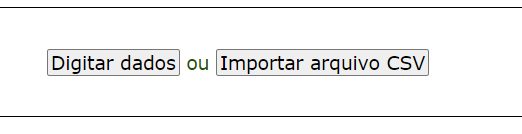
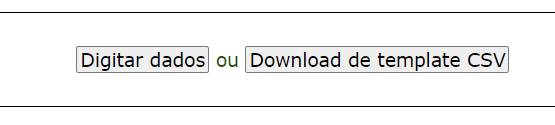
4th commit

diff --git a/js/calculo.js b/js/calculo.js
@@ -36,12 +36,14 @@ function funcCalcularDados(){
     let qtdeColetores, qtdeRepeticoes, qtdePassadas, coletorCentral;
     let bitola;
     let larguraPneu;
+    let nColetorCentral;
     qtdeColetores    = Number(document.getElementById('txtQtdeColetores').value);
     qtdeRepeticoes   = Number(document.getElementById('txtQtdeRepeticoes').value);
     qtdePassadas     = Number(document.getElementById('txtQtdePassadas').value);
     //coletorCentral   = document.getElementById('radioParImpar').value;
     bitola           = Number(document.getElementById('txtBitola').value);
     larguraPneu      = Number(document.getElementById('txtLarguraPneu').value);
+    nColetorCentral   = Number(document.getElementById('txtNumColetorCentral').value);
     // Inicializa o array
     for(let i=0; i<qtdeColetores; i++){
         arrPlanilhaResultado[i] = []; // Inicializa novas linhas
@@ -155,6 +157,57 @@ function exibePlanilhaResultado(){
         document.getElementById('div-resultado-tabela').innerHTML = outptHTML;
         //document.write(outptHTML);
     } // if
+}
+
+function criaTemplateCSVParaDownload(){
+    /**
+     * Cria o arquivo CSV de acordo com os parâmetros passados
+     */
+    var arrTemplate = []; // Cria um array multidimensional
+    let qtdeColetores, qtdeRepeticoes, qtdePassadas, coletorCentral;
+    let bitola;
+    let larguraPneu;
+    let nColetorCentral;
+    var dados; // dados do template
+    qtdeColetores    = Number(document.getElementById('txtQtdeColetores').value);
+    qtdeRepeticoes   = Number(document.getElementById('txtQtdeRepeticoes').value);
+    qtdePassadas     = Number(document.getElementById('txtQtdePassadas').value);
+    //coletorCentral   = document.getElementById('radioParImpar').value;
+    bitola           = Number(document.getElementById('txtBitola').value);
+    larguraPneu      = Number(document.getElementById('txtLarguraPneu').value);
+    nColetorCentral   = Number(document.getElementById('txtNumColetorCentral').value);
+    // Inicializa o array
+    for(let i=0; i<qtdeColetores; i++){
+        arrTemplate[i] = []; // Inicializa novas linhas
+        for(let j=0; j<(qtdeRepeticoes+8); j++){
+            arrTemplate[i][j] = 0; // Preenche com zeros
+        } // j
+    } // i
+    dados = 'Coletor;';
+    // cria o cabeçalho
+    for(let i=0; i<qtdeRepeticoes; i++){
+        dados += 'Rep. '+(i+1)+';';
+    }
+    dados += 'Qtde passadas;Bitola;Largura pneu;Num do coletor central;Coletor central'; // cabeçalho do arquivo
+    // Preenche toda coluna "Coletor"
+    for(let i=1; i<=qtdeColetores; i++){
+        arrTemplate[i] = []; // Inicializa novas linhas
+        arrTemplate[i][0] = i; 
+    }
+    // Popula os dados apenas da linha 1, coluna "qtde passadas" até o fim da linha
+    arrTemplate[1][qtdeRepeticoes+2] = qtdePassadas+';';
+    arrTemplate[1][qtdeRepeticoes+3] = bitola+';';
+    arrTemplate[1][qtdeRepeticoes+4] = larguraPneu+';';
+    arrTemplate[1][qtdeRepeticoes+5] = nColetorCentral+';';
+    arrTemplate[1][qtdeRepeticoes+6] = 'P';
+
+    // Precisa mesclar os dados do array com do cabeçalho.... ******************************************************************************************
+
+    let ancora = document.createElement('a');
+    ancora.href = 'data:text/csv;charset=utf-8,' + encodeURI(dados); // link do download com o arquivo
+    ancora.target = '_blank'; // abre em nova página
+    ancora.download = 'Template AdulancoWeb '+Date.now(); // nome do arquivo CSV
+    ancora.click(); // dispara o download
 }
 
 function leiaCSV(){

diff --git a/entradamanual.html b/entradamanual.html
@@ -58,8 +58,8 @@
                 <li>
                     <fieldset>
                         <div id="div-fieldset-botoes" class="div-main-body-fieldset-botoes">
-                            <input type="button" id="btnCriarCampos" value="Digitar dados"> ou 
-                            <input type="button" id="btnEntradaCSV" value="Importar arquivo CSV">
+                            <input type="button" id="btnCriarCampos" value="Digitar dados" title="informar dados manualmente"> ou 
+                            <input type="button" id="btnDownloadTemplate" value="Download do template CSV" title="Baixar planilha modelo">
                         </div>
                     </fieldset>
                 </li>
@@ -68,10 +68,17 @@
                         <legend>Digite abaixo </legend>
                         <!--form id="form-entrada-digitacao"-->
                             <div id="div-fieldset-entrada-digitacao"></div>
+                            <br>
                             <input type="button" id="btnCalcular" value="Calcular dados">
                             <input type="reset" id="btnLimparTabela" value="Limpar campos da tabela">
                             <input type="button" id="btnDeletarTabela" value="Deletar tabela" disabled>
-                            <input type="checkbox" id="cbHabilitaDelete" /><label for="cbHabilitaDelete" class="p-fieldset-fonte-pqna"> Habilita botão</label>
+                            <input type="checkbox" id="cbHabilitaDelete" /><label for="cbHabilitaDelete" class="p-fieldset-fonte-pqna"> Habilitar botão</label>
+                            <br>
+                            <ul>
+                                <li class="texto-observacao">*Calcular dados: Gera o resultado e gráficos.</li>
+                                <li class="texto-observacao">*Limpar campos: Esvazia todos os campos da tabela acima.</li>
+                                <li class="texto-observacao">*Para deletar toda a tabela, selecione o item "Habilitar botão". Após, clique no botão "Deletar tabela".</li>
+                            </ul>
                         <!--/form-->
                     </fieldset>
                 </li>
@@ -89,7 +96,8 @@
     window.addEventListener('scroll', menuFooter);
     //window.addEventListener('resize', menuFooter);
     document.getElementById('btnCalcular').addEventListener('click', funcCalcularDados);
-    document.getElementById('btnEntradaCSV').addEventListener('click', ()=>{window.location.href="entradacsv.html";});
+    document.getElementById('btnDownloadTemplate').addEventListener('click', criaTemplateCSVParaDownload);
+    //document.getElementById('btnEntradaCSV').addEventListener('click', ()=>{window.location.href="entradacsv.html";});
     document.getElementById('btnCriarCampos').addEventListener('click', criaCamposDinamicosParaUserDigitarDados);
     document.getElementById('btnDeletarTabela').addEventListener('click', ()=>{ removeElementoFilhoHTML('div-fieldset-entrada-digitacao','tb-digitar-dados'); });
     document.getElementById('cbHabilitaDelete').addEventListener('change', habilitaDesabilitaBotaoDeletarTabela);

diff --git a/instrucoes.html b/instrucoes.html
@@ -20,21 +20,21 @@
                 <h4>Iniciado em novembro de 2024, o layout e os cálculos ainda estão sob desenvolvimento.</h4>
                 <h4>Volte no futuro e obrigado pela visita! </h4>
                 <hr>
+
                 <h1><a href="#inicio">Como iniciar?</a></h1>
                 <p>Vá ao menu "entrada manual" e role a página para baixo</p>
                 <p>Informe os valores em cada campo (vide imagem abaixo)</p>
                 <br>
-                
                 <p><img src="assets/em-tela1.png" class="img-instrucoes" alt="entrada manual tela 1"></p>
                 <br>
+
                 <h4>Duas opções de inserção de dados podem ser escolhidas:</h4>
-                <h4>Digitar dados ou utilizar um arquivo CSV com dados já existentes.</h4>
+                <h4>Digitar dados manualmente ou upload de arquivo CSV.</h4>
                 
-                <h1><a href="#Digitando os dados">Digitando os dados</a></h1>
+                <h1><a href="#Digitando">Digitando os dados utilizando os campos</a></h1>
                 <p>Se preferir informar os dados digitando-os diretamente nos campos:</p>
                 <p>Clique no botão "Digitar dados"</p>
                 <br>
-                
                 <p><img src="assets/em-tela2.png" class="img-instrucoes" alt="entrada manual tela 2"></p>
                 <p>Perceba que aparecerão os campos para a digitação</p>
                 <br>
@@ -43,11 +43,15 @@
                 <br>
                 <p>Após terminar a digitação dos dados, clique no botão "Calcular dados" (vide imagem abaixo)</p>
                 <p><img src="assets/em-tela4.png" class="img-instrucoes" alt="entrada manual tela 4"></p>
+                <br>
                 
-                <h1><a href="#Fazendo upload dos dados">Fazendo upload dos dados</a></h1>
+                <h1><a href="#download">Fazendo download da planilha modelo CSV</a></h1>
                 <p>Caso possua uma planilha com os dados previamente digitados, como por exemplo uma planilha do Excel, salve-a com o tipo .CSV delimitado por ponto-e-vírgula.</p>
                 <p>Certifique-se que a planilha atende ao modelo informado. Caso contrário, haverá um erro.</p>
-                <p>Não é ....</p>
+                <p>É possível baixar um template (modelo) de planilha CSV para preenchimento no computador e posterior upload para o aplicativo web.</p>
+                <p>Para baixar um template (após ter realizado so passos do <a href="#inicio">início</a>) clique no botão "Download do template CSV".</p>
+                <p><img src="assets/em-tela2.png" class="img-instrucoes" alt="entrada manual tela 2"></p>
+                <br>
 
 
                 <div id="div-espaco-para-footer"></div>

diff --git a/css/style.css b/css/style.css
@@ -189,6 +189,11 @@ input[type=button]{
     font-size: 10pt;
 }
 
+.texto-observacao{
+    /* Texto para entrelinhas. Texto menor */
+    font-size: x-small;
+}
+
 #div-footer-espacador{
     position: relative;
     vertical-align: top;
